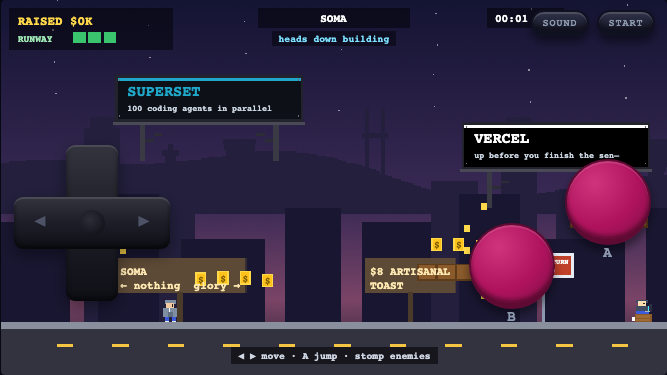
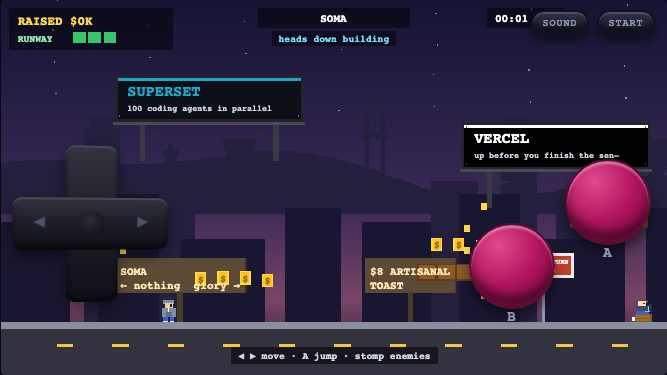
Hotfix: press feel — the cross rocks toward the held arm, domes sink

diff --git a/index.html b/index.html
@@ -153,7 +153,10 @@ if (/^https?:$/.test(location.protocol) && location.hostname !== 'localhost'
      pseudo-elements), the L/R arms are transparent touch zones on top */
   #touch div#dpad { position:absolute; width:156px; height:156px; pointer-events:none;
           bottom:auto; background:none; border:0; box-shadow:none; border-radius:0; line-height:normal;
-          filter:drop-shadow(0 6px 8px rgba(0,0,0,.4)); }
+          filter:drop-shadow(0 6px 8px rgba(0,0,0,.4));
+          transition:transform .05s ease-out; transform:perspective(340px); }
+  #touch div#dpad.pl { transform:perspective(340px) rotateY(-9deg) translateY(1px); filter:drop-shadow(0 3px 5px rgba(0,0,0,.5)); }
+  #touch div#dpad.pr { transform:perspective(340px) rotateY(9deg) translateY(1px); filter:drop-shadow(0 3px 5px rgba(0,0,0,.5)); }
   #dpad::before, #dpad::after { content:''; position:absolute; border-radius:9px;
           background:linear-gradient(180deg, #33343e 0%, #1e1f28 45%, #0f1016 100%);
           box-shadow:inset 0 2px 0 rgba(255,255,255,.12), inset 0 -4px 5px rgba(0,0,0,.5); }
@@ -169,10 +172,15 @@ if (/^https?:$/.test(location.protocol) && location.hostname !== 'localhost'
                  background:radial-gradient(circle at 42% 36%, #2c2d37 0%, #13141b 75%); }
   #tL { left:0; top:52px; pointer-events:auto; }
   #tR { left:104px; top:52px; pointer-events:auto; }
-  #tL:active, #tR:active { color:#9aa0b8; transform:none; border:0; }
+  #tL:active, #tR:active { color:#c3c8da; transform:none; border:0; box-shadow:none; background:none; }
   #touch div#tJ, #touch div#tB{right:calc(18px + env(safe-area-inset-right, 0px)); width:86px; height:86px; border-radius:50%;
-                background:radial-gradient(circle at 34% 28%, #d0347c 0%, #b0135e 55%, #7e0f44 100%);
-                color:transparent; border-color:#5e0a33; overflow:visible;}
+                background:radial-gradient(circle at 34% 26%, #e0498d 0%, #b0135e 52%, #6e0b3a 100%);
+                color:transparent; border-color:#5e0a33; overflow:visible;
+                box-shadow:inset 0 3px 2px rgba(255,255,255,.35), inset 0 -8px 10px rgba(0,0,0,.45), 0 7px 12px rgba(0,0,0,.5);
+                transition:transform .04s ease-out, box-shadow .04s ease-out, filter .04s; }
+  #touch div#tJ:active, #touch div#tB:active { transform:translateY(5px) scale(.96); filter:brightness(.85);
+                border-bottom-width:2px;
+                box-shadow:inset 0 4px 8px rgba(0,0,0,.5), 0 2px 4px rgba(0,0,0,.4); }
   #touch div#tJ::after, #touch div#tB::after { position:absolute; left:50%; bottom:-22px; transform:translateX(-50%);
                 content:'A'; color:#3d4152; font:bold 14px "Courier New",monospace; letter-spacing:1px; }
   #touch div#tB::after { content:'B'; }
@@ -225,6 +233,8 @@ if (/^https?:$/.test(location.protocol) && location.hostname !== 'localhost'
     #touch div#tP::after, #touch div#tS::after { position:absolute; left:50%; bottom:-19px; transform:translateX(-50%);
                                    content:'START'; color:#3d4152; font:bold 10px "Courier New",monospace; letter-spacing:1px; }
     #touch div#tS::after { content:'SOUND'; }
+    #touch div#tP:active, #touch div#tS:active { transform:rotate(-24deg) translateY(2px);
+                                   box-shadow:inset 0 5px 7px rgba(0,0,0,.6); }
   }
   #bezelLabel { position:fixed; display:none; z-index:4; left:0; right:0; text-align:center;
                 font:bold 8px "Courier New",monospace; color:#4d6f7e; letter-spacing:4px;
@@ -648,6 +658,9 @@ if ('ontouchstart' in window) {
           touch[['L','R','J'][i]] = true;
       });
     }
+    const dp = document.getElementById('dpad'); // the cross rocks toward the held arm
+    dp.classList.toggle('pl', touch.L);
+    dp.classList.toggle('pr', touch.R);
   };
   for (const ev of ['touchstart','touchmove','touchend','touchcancel'])
     tEl.addEventListener(ev, e => { e.preventDefault(); anyKeyPressed = true; idleT = 0; initAudio(); recompute(e); }, {passive:false});

diff --git a/qa/CHANGELOG.md b/qa/CHANGELOG.md
@@ -994,3 +994,11 @@ Every DOM button (end card, pause menu, install card, customize DONE) ticks on p
 delegated pointerdown listener + a 35ms square blip, respecting mute. Excluded: the customize
 arrows (cycleLook already ticks) and the sound toggle (setMuted already confirms). Tests +
 minigames + mobile green.
+
+## 2026-07-22 — [HOTFIX: press feel] buttons stopped feeling fake
+
+The unified-cross refactor had killed the d-pad's travel (:active transform:none on the transparent
+arms). Now the whole cross ROCKS toward the held arm (perspective rotateY via .pl/.pr classes set
+from recompute() — real finger state, works mid-slide), A/B domes get deeper gradients + specular
+inset and visibly sink on press (translateY + scale + brightness), pills press into their wells.
+Mobile suite green.